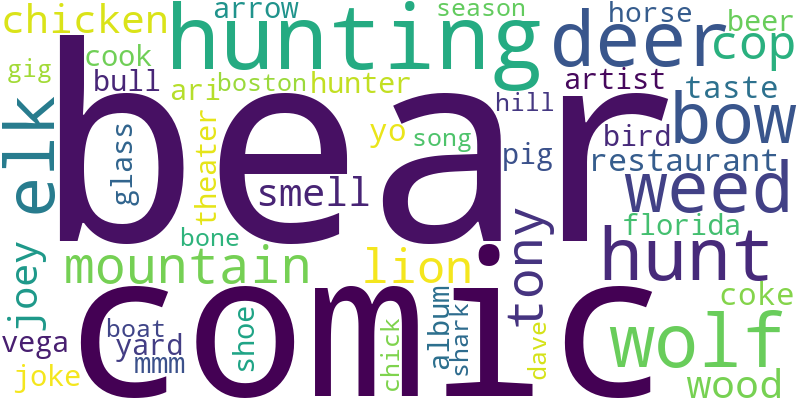
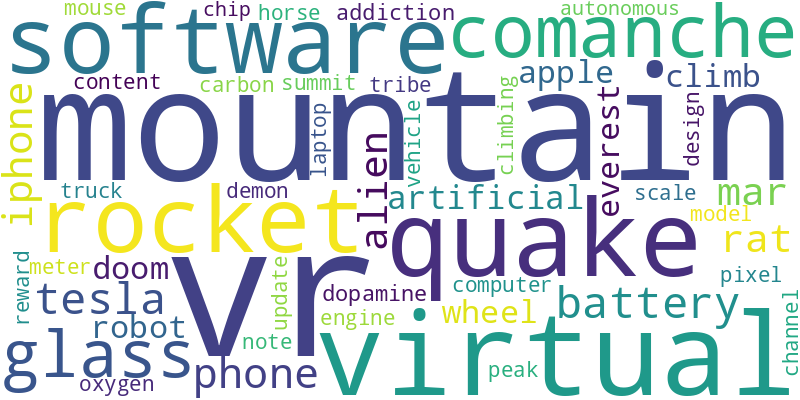
LDAnotebook

diff --git a/LDA.py b/LDA.py
@@ -1,0 +1,141 @@
+# Necessary imports
+import json
+import string
+
+# These are for LDA itself
+from gensim.corpora.dictionary import Dictionary
+from gensim.models.ldamulticore import LdaMulticore as LdaModel # this is the multicore version, supposed to be faster
+from sklearn.feature_extraction.text import TfidfVectorizer
+
+# This is to clean up the text
+from nltk.corpus import stopwords
+from nltk.tokenize import word_tokenize
+from nltk.stem import WordNetLemmatizer
+import nltk
+
+# Download necessary NLTK resources if not already available
+try:
+    stop_words = set(stopwords.words('english'))
+except LookupError:
+    nltk.download('stopwords')
+    stop_words = set(stopwords.words('english'))
+
+try:
+    word_tokenize('test')
+except LookupError:
+    nltk.download('punkt')
+
+try:
+    nltk.pos_tag(['test'])
+except LookupError:
+    nltk.download('averaged_perceptron_tagger')
+
+# Download wordnet as indicated in the error message
+try:
+    lemmatizer = WordNetLemmatizer()
+    lemmatizer.lemmatize('test')
+except LookupError:
+    nltk.download('wordnet')
+
+# load json data and convert to python dictionary
+with open('dictionary.json') as f:
+    data = json.load(f)
+
+# create new dictionary with only keys where value is not None
+def remove_empty_episodes(data):
+    new_dict = {}
+    for key in data:
+        if data[key] is not None:
+            new_dict[key] = data[key]
+    return new_dict
+
+cleaned_dict = remove_empty_episodes(data)
+
+custom_stopwords = {"yeah", "__", "'s", "'re", "'m", "n't", "uh", "um", "like", "know", "right", "people", "think", "bro", "cuz", "ta"}
+all_stopwords = stop_words.union(custom_stopwords)
+
+# Defining processing and cleaning tools.
+def preprocess(text):
+    tokens = word_tokenize(text.lower())  # Tokenize and lowercase
+    tokens = [t for t in tokens if t not in all_stopwords and t not in string.punctuation]
+    return tokens
+
+tfidf = TfidfVectorizer(
+    min_df=2,  # Minimum document frequency, change if you think it should be higher or lower
+    max_df=0.5,  # Maximum document frequency (as a proportion), change if you think it should be higher or lower
+    stop_words=list(all_stopwords)
+)
+
+lemmatizer = WordNetLemmatizer()
+
+
+documents = list(cleaned_dict.values())  # Corpus: concatenated texts by IDs
+processed_docs = [preprocess(doc) for doc in documents]
+
+tfidf.fit([" ".join(doc) for doc in processed_docs])
+important_words = set(tfidf.get_feature_names_out())
+
+# Filter texts to keep only important words
+filtered_texts = [[word for word in doc if word in important_words] for doc in processed_docs]
+
+# Lemmatize filtered_texts
+lemmatized_texts = []
+for doc in filtered_texts:
+    lemmatized_doc = [lemmatizer.lemmatize(word) for word in doc]
+    lemmatized_texts.append(lemmatized_doc)
+
+# Create a dictionary and corpus
+dictionary = Dictionary(lemmatized_texts)
+corpus = [dictionary.doc2bow(doc) for doc in lemmatized_texts]  # Bag-of-words format
+
+# Train LDA
+lda_model = LdaModel(corpus, num_topics=20, id2word=dictionary, passes=10)
+
+# Display topics
+for idx, topic in lda_model.print_topics(-1):
+    print(f"Topic {idx}: {topic}")
+
+# Classify each document into a topic
+document_topic_mapping = {}
+
+for i, bow in enumerate(corpus):
+    topic_distribution = lda_model[bow]  # Get the topic distribution for the document
+    most_probable_topic = max(topic_distribution, key=lambda x: x[1])[0]  # Find the topic with the highest probability
+    document_topic_mapping[list(cleaned_dict.keys())[i]] = most_probable_topic
+
+# Print document-topic mapping
+for episode_id, topic_id in document_topic_mapping.items():
+    print(f"Episode ID: {episode_id} => Assigned Topic: {topic_id}")
+
+# Optional: Save the document-topic mapping to a JSON file
+with open('document_topic_mapping.json', 'w') as f:
+    json.dump(document_topic_mapping, f, indent=4)
+
+# Generate wordclouds for each topic
+from wordcloud import WordCloud
+import matplotlib.pyplot as plt
+
+# Create a folder to save wordclouds
+import os
+os.makedirs("wordclouds", exist_ok=True)
+
+# Generate wordclouds for each topic
+for idx, topic in lda_model.show_topics(num_topics=20, formatted=False, num_words=50):
+    topic_words = dict(topic)  # Convert word-probability pairs to dictionary
+    
+    # Generate wordcloud
+    wordcloud = WordCloud(
+        background_color='white',
+        width=800,
+        height=400
+    ).generate_from_frequencies(topic_words)
+    
+    # Display the wordcloud
+    plt.figure(figsize=(10, 5))
+    plt.imshow(wordcloud, interpolation='bilinear')
+    plt.axis("off")
+    plt.title(f"Topic {idx}", fontsize=16)
+    plt.show()
+    
+    # Save the wordcloud as an image
+    wordcloud.to_file(f"wordclouds/topic_{idx}.png")
